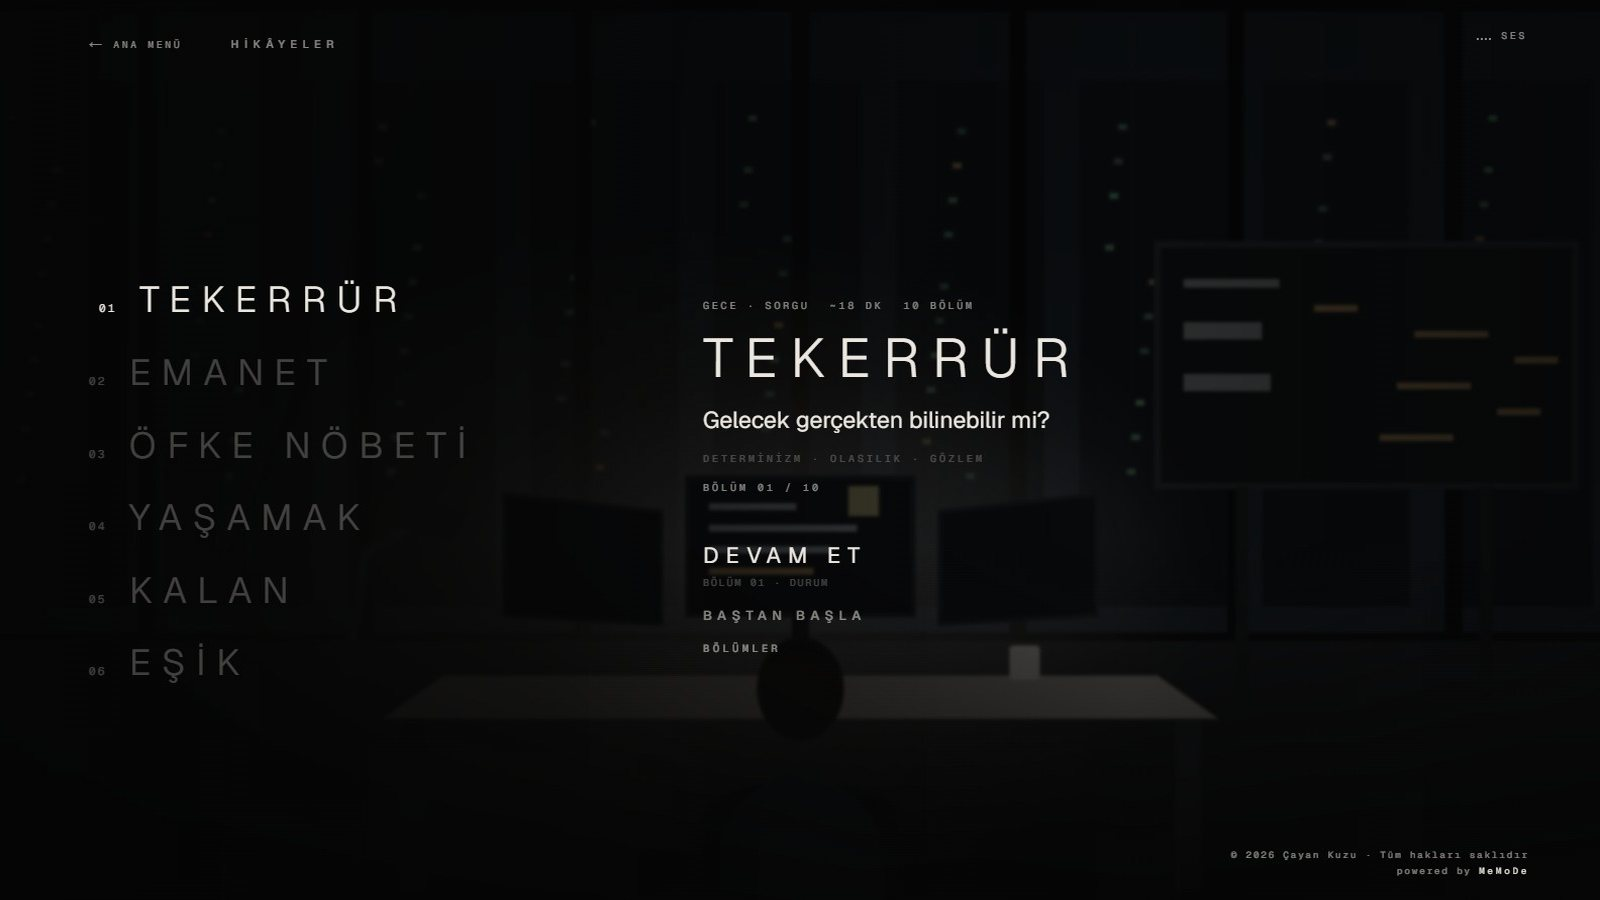
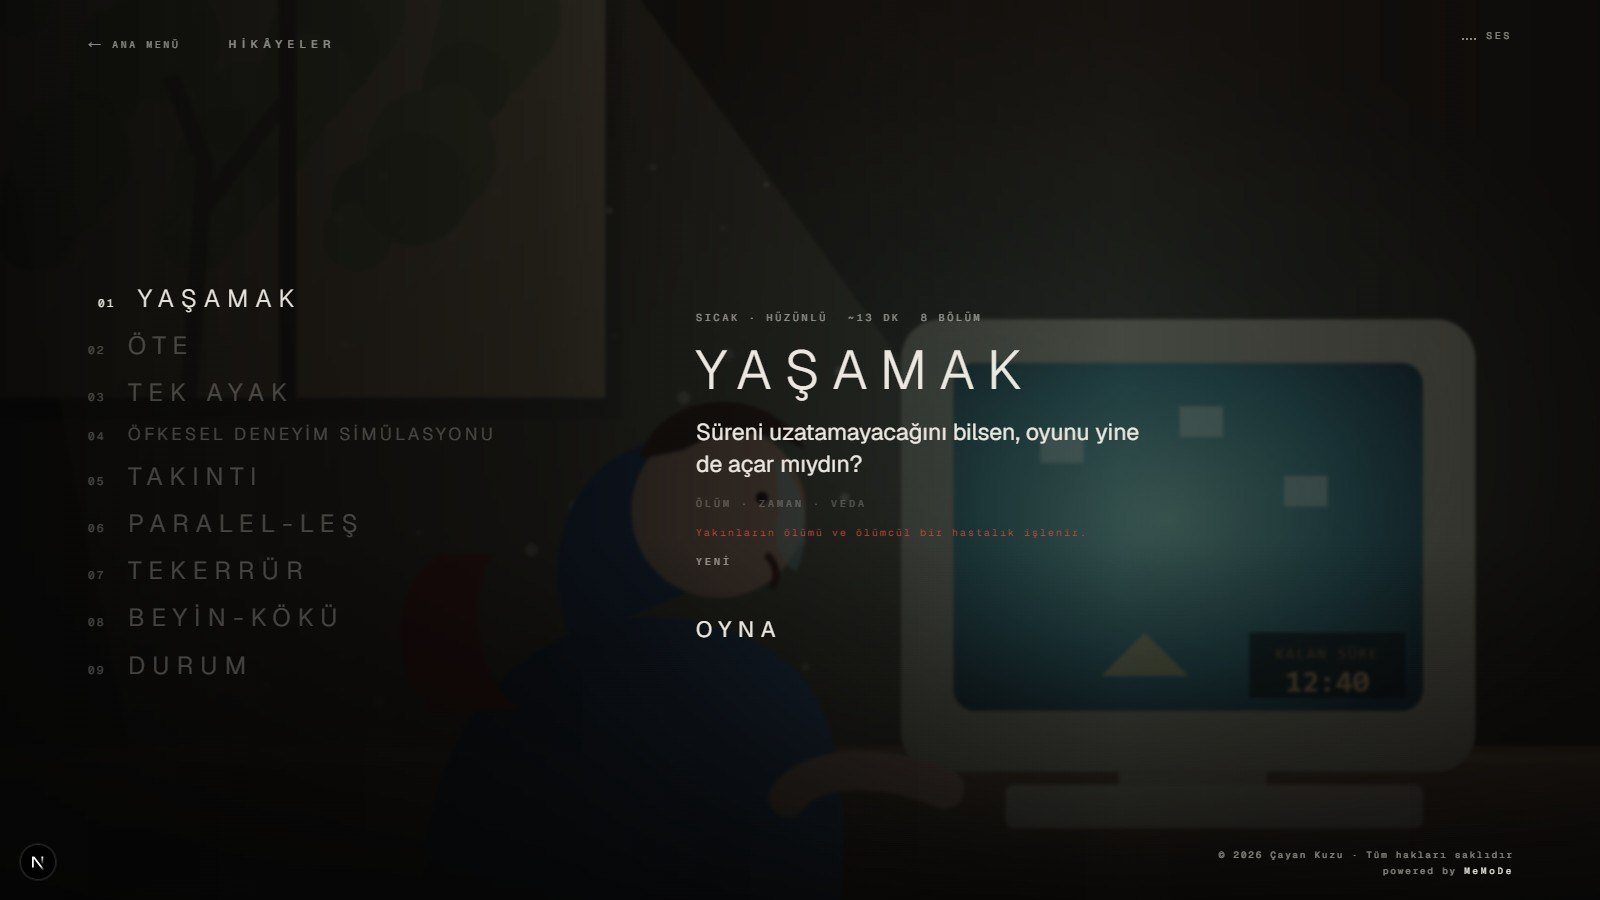
Refresh STROLLY: nine stories, 2.0 previews, CC0 assets, English

diff --git a/src/app/projects.ts b/src/app/projects.ts
@@ -255,40 +255,53 @@ export const projects: Project[] = [
     featured: true,
     category: "game",
     title: "STROLLY",
-    hook: "Kaydırdıkça zaman akar, baktıkça anlam değişir: içinde 360° dönebildiğin altı kısa hikâye.",
+    hook: "Kaydırdıkça zaman akar, baktıkça anlam değişir: içinde 360° dönebildiğin dokuz kısa hikâye.",
     description:
-      "Kaydırma hareketiyle ilerleyen, sinematik ve etkileşimli altı bilimkurgu hikâyesi: TEKERRÜR, EMANET, ÖFKE NÖBETİ, YAŞAMAK, KALAN ve EŞİK. Kaydırmak zamandır; sürükleyerek sahnenin içinde 360° dönersin ve bazı ayrıntılar yalnızca arkanda durur. Okur yer yer bir sisteme soru sorar ya da karar verir; cevaplar sonraki satırları, sahneyi ve sesi değiştirir. Bütün modeller, dokular, ekranlar ve sesler kodla üretilir, hazır bir varlık kullanılmaz.",
+      "Kaydırma hareketiyle ilerleyen, sinematik ve etkileşimli dokuz kısa hikâye: YAŞAMAK, ÖTE, TEK AYAK, ÖFKESEL DENEYİM SİMÜLASYONU, TAKINTI, PARALEL-LEŞ, TEKERRÜR, BEYİN-KÖKÜ ve DURUM; hepsi yazarın kendi metinlerinden. Kaydırmak zamandır; sürükleyerek sahnenin içinde 360° dönersin ve bazı ayrıntılar yalnızca arkanda durur. Okur yer yer bir makineye soru sorar ya da karar verir; cevaplar sonraki satırları, sahneyi ve sesi değiştirir. Karakterler, ekranlar ve bütün sesler kodla üretilir; modeller, dokular ve ışık CC0 taramalardır (Poly Haven). Türkçe ve İngilizce.",
     platform: "Web · Masaüstü ve mobil",
     status: "Canlı",
     role: "Bağımsız anlatı oyunu · Yazım ve sahneleme · 3B istemci ve ses",
     tools: ["Next.js", "TypeScript", "Three.js/WebGL", "Web Audio", "GSAP · Lenis"],
     highlights: [
-      "Altı hikâye, her biri 8–10 bölüm; seçimler, günlük, keşifler ve bölüm kayıtları",
-      "Prosedürel PBR yüzeyler, iskeletli karakterler ve uzamsal ses; dışarıdan hiçbir görsel ya da ses yok",
+      "Dokuz hikâye, her biri satır satır sahneye bağlı bir senaryoyla; seçimler, günlük, keşifler ve bölüm kayıtları",
+      "Gerçek CC0 modeller ve taranmış yüzeyler, kodla üretilen karakterler ve uzamsal ses; kare kare doğrulanmış senkron",
+      "Türkçe ve İngilizce; erişilebilirlik ayarları ve WebGL'siz metin yolu",
     ],
     href: "https://strolly-seven.vercel.app/",
     ctaLabel: "Hikâyeleri oku",
     sourceUrl: "https://github.com/cayankuzu/strolly",
     images: [
       {
-        src: "/project-previews/strolly-blackhole.jpg",
-        caption: "YAŞAMAK: kalan süreyle bir kara deliğin olay ufkuna",
-      },
-      {
         src: "/project-previews/strolly-tekerrur.jpg",
-        caption: "TEKERRÜR: DURUM gözlemevinde gece, sunucu salonu camın ardında",
+        caption: "TEKERRÜR: duvarları ormana açılan oda; ekran duvarlarında gerçek bir 360° fotoğraf",
       },
       {
-        src: "/project-previews/strolly-emanet.jpg",
-        caption: "EMANET: Ege'nin son gününden bir ikindi, bellekten yeniden kurulmuş",
+        src: "/project-previews/strolly-ote.jpg",
+        caption: "ÖTE: galaksinin merkezine giden gemi, arkasında küçülen Dünya",
       },
       {
-        src: "/project-previews/strolly-ofke.jpg",
-        caption: "ÖFKE NÖBETİ: oturumdan sonra sokak; pano şiddetin azaldığını söylüyor",
+        src: "/project-previews/strolly-paralel.jpg",
+        caption: "PARALEL-LEŞ: uçurumun kenarına kurulmuş bir salıncak",
+      },
+      {
+        src: "/project-previews/strolly-durum.jpg",
+        caption: "DURUM: her şeyin durumunu bilen makineye tek bir elektron soruluyor",
+      },
+      {
+        src: "/project-previews/strolly-yasamak.jpg",
+        caption: "YAŞAMAK: internet kafede süresi dolmak üzere olan bir çocuk",
+      },
+      {
+        src: "/project-previews/strolly-tekayak.jpg",
+        caption: "TEK AYAK: çöp köşesindeki ceza; bütün sınıf Eren'e bakıyor",
+      },
+      {
+        src: "/project-previews/strolly-takinti.jpg",
+        caption: "TAKINTI: yarı açık kapıdan duvara vuran gölge",
       },
       {
         src: "/project-previews/strolly-stories.jpg",
-        caption: "Altı hikâyenin seçim ekranı",
+        caption: "Dokuz hikâyenin seçim ekranı",
       },
     ],
     tone: "navy",

diff --git a/public/project-previews/SOURCES.md b/public/project-previews/SOURCES.md
@@ -10,10 +10,11 @@
   taken on 2026-10-01 with real swings, carries and physics (a sledgehammer hit on a vase, the
   room after a session, the street with the rage room and shops, carrying a piece to the street
   container)
-- `strolly-blackhole.jpg`, `strolly-tekerrur.jpg`, `strolly-emanet.jpg`, `strolly-ofke.jpg`,
-  `strolly-stories.jpg`: in-browser captures of STROLLY v1.0.0 (`strolly-seven.vercel.app`, same
-  build run locally), taken on 2026-10-01 at 1600×900 (YAŞAMAK's event horizon, TEKERRÜR's
-  observatory, an afternoon in EMANET, the street outside ÖFKE NÖBETİ, the story select screen)
+- `strolly-tekerrur.jpg`, `strolly-ote.jpg`, `strolly-paralel.jpg`, `strolly-durum.jpg`,
+  `strolly-yasamak.jpg`, `strolly-tekayak.jpg`, `strolly-takinti.jpg`, `strolly-stories.jpg`:
+  in-browser captures of STROLLY 2.0 beta (`strolly-seven.vercel.app`, same build run locally),
+  taken on 2026-10-13 at 1600×900 (TEKERRÜR's forest room, ÖTE's ship, PARALEL-LEŞ's swing,
+  DURUM's electron, YAŞAMAK's cafe, TEK AYAK's reveal, TAKINTI's shadow, the story select)
 - `dream-lines.jpg`, `dream-chair.jpg`, `dream-print.jpg`, `dream-moon.jpg`, `dream-photograph.jpg`:
   in-browser captures of The Dream of the Photo (`the-dream-of-the-photo.vercel.app`, same build run
   locally), taken on 2026-10-12 at 1600×900 (the frozen rain under the washing lines of photographs,
